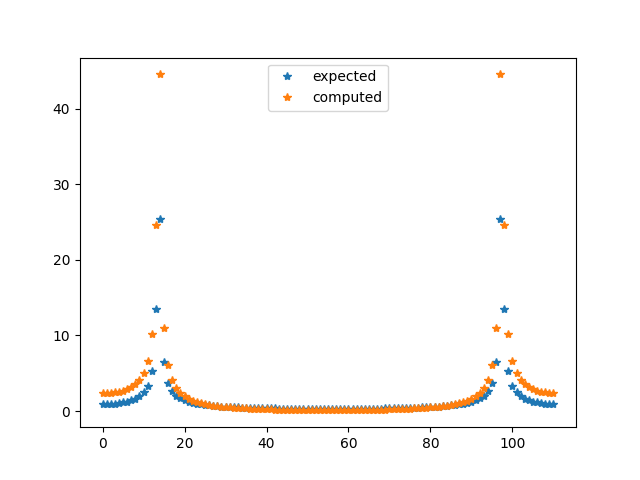
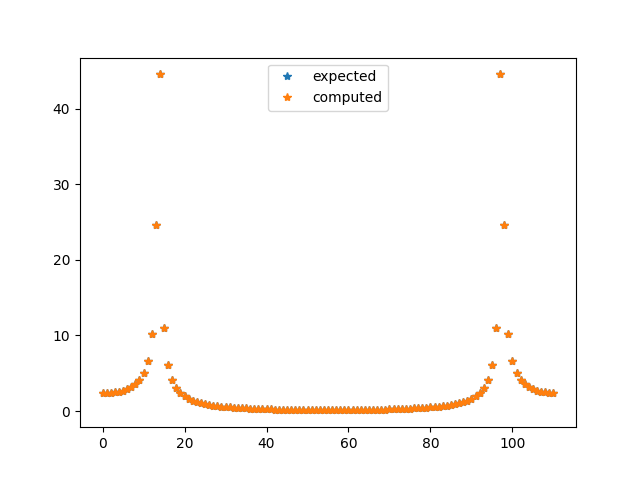
i was dumb i fixed it

diff --git a/ass4/p5.py b/ass4/p5.py
@@ -4,7 +4,8 @@ import numpy as np
 
 ## lets fft a non integer sine wave 
 x = np.arange(111)
-my_sin = np.sin(2 * np.pi * 0.123 * x)
+l = 0.123 * x.size
+my_sin = np.sin(2 * np.pi * l * x / x.size)
 
 my_ft = np.fft.fft(my_sin)
 
@@ -15,11 +16,11 @@ from matplotlib import pyplot as plt
 
 def analytic(k,l):
     comp_exp = lambda arg: np.exp(-2j* np.pi * arg)
-    term_1 = (1-comp_exp(k-0.123)/(1-comp_exp((k-0.123)/(x.size))))
-    term_2 = (1-comp_exp(k+0.123)/(1-comp_exp((k+0.123)/(x.size))))
-    return 1/(2j * (x.size)) * (term_1 - term_2)
+    term_1 = (1-comp_exp(k-l))/((1-comp_exp((k-l)/(x.size))))
+    term_2 = (1-comp_exp(k+l))/((1-comp_exp((k+l)/(x.size))))
+    return 1/(2j) * (term_1 - term_2)
 
-expected_ft = analytic(np.fft.fftfreq(x.size), 0.123)
+expected_ft = analytic(x, l)
 
 print("the difference between computed and expected: ", np.std((my_ft) - (expected_ft)))
 # print((my_ft) - (expected_ft))
@@ -28,6 +29,9 @@ plt.plot(np.abs(expected_ft), "*", label="expected")
 plt.plot(np.abs(my_ft), '*', label="computed")
 plt.legend()
 plt.savefig("output/spectral_leackage.png")
+plt.clf()
+plt.plot(np.abs(expected_ft - my_ft), "*")
+plt.savefig("output/ratio_analtocomp.png")
 ##idk why the hell they arent identical. This is some numpy sneaking bullshit
 
 
